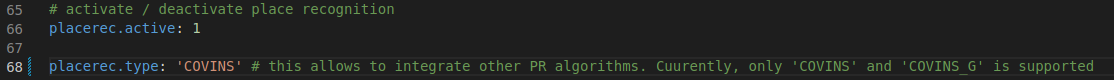
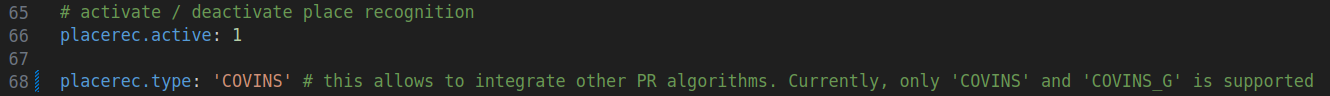
cleanup
Remove dead code
Add FLANN matcher for SIFT
fix typos

diff --git a/covins_backend/src/covins_backend/RelNonCentralPosSolver.cpp b/covins_backend/src/covins_backend/RelNonCentralPosSolver.cpp
@@ -7,7 +7,7 @@
 
 #include <eigen3/Eigen/Core>
 
-// CoVINS
+// COVINS
 #include "covins_backend/keyframe_be.hpp"
 #include "covins_base/config_backend.hpp"
 
@@ -63,7 +63,6 @@ bool RelNonCentralPosSolver::computeNonCentralRelPose(
     const double threshold, Eigen::Matrix4d &Tc1c2, Eigen::Matrix<double, 6, 6> &cov_loop) {
 
   // Find matches between CKF and QKF
-  // std::cout << "Attempting NON-Relative Pose Solver" << std::endl;
 
   // 3 v 2 Matching of Multicamera Systems (See publication for reference)
   size_t n_ckfs = 3;
@@ -163,11 +162,6 @@ bool RelNonCentralPosSolver::computeNonCentralRelPose(
         sacProb.max_iterations_ = mMaxIter_17PT;
         sacProb.computeModel(0);
 
-        // std::cout << "17 POINT Ransac needed " << sacProb.iterations_ << " iterations and ";
-        // std::cout << std::endl;
-        // std::cout << "the number of inliers is: " << sacProb.inliers_.size();
-        // std::cout << std::endl << std::endl;
-
         if (sacProb.inliers_.size() < mMinInliers_17PT ) {
         return false;
         }
@@ -188,10 +182,7 @@ bool RelNonCentralPosSolver::computeNonCentralRelPose(
         TransformType Tws1 = (Twc1corr * QKF->GetStateExtrinsics().inverse());
         Ts1s2 = Tws1.inverse() * Tws2;
 
-        // std::cout << "T_s2s1 :" << std::endl << Ts1s2.inverse() << std::endl;
-
         ////////////////////////////////////////////////////////////////////////////////////////////////////
-        // TODO Shift the Covariance Computation to Seperate Function
 
         // Compute Observed Covariance (Sampling-based Covariance)
         // We compute the Covariance in the IMU frame since PGO has all edges in
@@ -300,8 +291,6 @@ bool RelNonCentralPosSolver::computeNonCentralRelPose(
                     (m_s.rowwise() - x_mean_s).matrix()) /
                    (m_s.rows() - 1);
         
-        // std::cout << "Cov Mat Trace: " << cov_loop.trace() << std::endl;
-
         if (cov_loop.trace() < mMax_cov) {
           return true;
         }
@@ -314,12 +303,12 @@ bool RelNonCentralPosSolver::computeNonCentralRelPose(
 auto RelNonCentralPosSolver::findMatches(const KeyframePtr KFPtr1,
                                          const KeyframePtr KFPtr2) -> Matches {
 
-  std::shared_ptr<cv::BFMatcher> matcher(nullptr);
+  std::shared_ptr<cv::DescriptorMatcher> matcher;
 
   if (covins_params::features::type == "ORB") {
-      matcher = make_shared<cv::BFMatcher>(cv::NORM_HAMMING);
+      matcher = make_shared<cv::BFMatcher>(cv::BFMatcher(cv::NORM_HAMMING));
   } else if (covins_params::features::type == "SIFT") {
-      matcher = make_shared<cv::BFMatcher>(cv::NORM_L2);
+      matcher = make_shared<cv::FlannBasedMatcher>(cv::FlannBasedMatcher());
   } else {
       std::cout << COUTERROR
               << "Wrong Feature Type: Only ORB or SIFT is supported currently"
@@ -375,8 +364,6 @@ bool RelNonCentralPosSolver::computePose(const KeyframePtr KfPtr1,
 
   //Inlier keypoints
   inlierInd = sacProb.inliers_;
-
-  // std::cout << "Inliers: "<< sacProb.inliers_.size() << " Iters: "<< sacProb.iterations_ << std::endl;
 
   if (sacProb.inliers_.size() < mMinInliers || sacProb.iterations_ >=
   sacProb.max_iterations_) {

diff --git a/covins_backend/src/matcher/ImageMatchingAlgorithm.cpp b/covins_backend/src/matcher/ImageMatchingAlgorithm.cpp
@@ -71,7 +71,7 @@ void ImageMatchingAlgorithm::doSetup() {
   numUncertainMatches_ = 0;
 
   // Prepare the bookkeeping for frame A
-  const size_t numA = kfPtrA_->keypoints_distorted_add_.size();
+  const size_t numA = kfPtrA_->keypoints_distorted_.size();
   skipA_.clear();
   skipA_.resize(numA, false);
 
@@ -79,37 +79,36 @@ void ImageMatchingAlgorithm::doSetup() {
   raySigmasA_.resize(numA);
   const double sqrtOfsqrtOf2 = std::sqrt(std::sqrt(2.0));
   for (size_t k = 0; k < numA; ++k) {
-    raySigmasA_[k] = 0.002;
-    // double keypointAStdDev = 0.8 * (kfPtrA_->keypoints_aors_[k][1] + 1);
-    // raySigmasA_[k] = sqrtOfsqrtOf2 * keypointAStdDev / fA_;
-    // if (kfPtrA_->GetLandmark(k)) {
-    //   skipA_[k] = true;
-    // }
+    double keypointAStdDev = 0.8 * (kfPtrA_->keypoints_aors_[k][1] + 1);
+    raySigmasA_[k] = sqrtOfsqrtOf2 * keypointAStdDev / fA_;
+    if (kfPtrA_->GetLandmark(k)) {
+      skipA_[k] = true;
+    }
   }
 
   // Prepare the bookkeeping for frame B
-  const size_t numB = kfPtrB_->keypoints_distorted_add_.size();
+  const size_t numB = kfPtrB_->keypoints_distorted_.size();
   skipB_.clear();
   skipB_.resize(numB, false);
   // Compute the ray uncertainty for frame B
   raySigmasB_.resize(numB);
   for (size_t k = 0; k < numB; ++k) {
     raySigmasB_[k] = 0.002;
-    // double keypointBStdDev = 0.8 * (kfPtrA_->keypoints_aors_[k][1] + 1);
-    // raySigmasB_[k] = sqrtOfsqrtOf2 * keypointBStdDev / fB_;
-    // if (kfPtrB_->GetLandmark(k)) {
-    //   skipB_[k] = true;
-    // }
+    double keypointBStdDev = 0.8 * (kfPtrA_->keypoints_aors_[k][1] + 1);
+    raySigmasB_[k] = sqrtOfsqrtOf2 * keypointBStdDev / fB_;
+    if (kfPtrB_->GetLandmark(k)) {
+      skipB_[k] = true;
+    }
   }
 }
 
 // What is the size of list A?
 size_t ImageMatchingAlgorithm::sizeA() const {
-    return kfPtrA_->keypoints_distorted_add_.size();
+    return kfPtrA_->keypoints_distorted_.size();
 }
 // What is the size of list B?
 size_t ImageMatchingAlgorithm::sizeB() const {
-    return kfPtrB_->keypoints_distorted_add_.size();
+    return kfPtrB_->keypoints_distorted_.size();
 }
 
 // Set the distance threshold for which matches exceeding it will not be returned as matches.

diff --git a/covins_backend/include/covins/covins_backend/RelNonCentralPosSolver.hpp b/covins_backend/include/covins/covins_backend/RelNonCentralPosSolver.hpp
@@ -7,9 +7,8 @@
 
 #include <eigen3/Eigen/Core>
 
-// CoVINS
+// COVINS
 #include <covins/covins_base/typedefs_base.hpp>
-
 #include "covins/matcher/MatchingAlgorithm.h"
 
 // Third Party
@@ -52,8 +51,8 @@ public:
   /// @param minInliers The minimal number of inliers needed
   /// @param ransacProb The ransac probability
   /// @param maxIter The maximal number of iterations
-  void setRansacParams(const int minInliers, const double ransacProb,
-                       const int maxIter);
+  auto setRansacParams(const int minInliers, const double ransacProb,
+                       const int maxIter) -> void;
 
 
   /// @brief Perform 17 Point Ransac using 2D-2D correspondces in non central
@@ -64,10 +63,10 @@ public:
   /// @param Tc1c2 Relative Transfomation from Frame 2 to Frame 1
   /// @param cov_loop Covariance Matrix (6x6) of the loop transformation
   /// @return Whether a Transformation with sufficients inliers was found
-  bool computeNonCentralRelPose(const KeyframePtr KeyframePtr1,
+  auto computeNonCentralRelPose(const KeyframePtr KeyframePtr1,
                                 const KeyframePtr KeyframePtr2,
                                 const double threshold, TransformType &Tc1c2,
-                                Matrix6Type &cov_loop);
+                                Matrix6Type &cov_loop) -> bool;
 
 
   /// @brief Perform 5 Point Ransac using 2D-2D correspondces to get pose.
@@ -78,9 +77,10 @@ public:
   /// @param Tc1c2 Relative Transfomation from Frame 2 to Frame 1
   /// @param inlierInd Vector containing the inlier indices
   /// @return Whether a Transformation with sufficients inliers was found
-  bool computePose(const KeyframePtr KeyframePtr1,
+  auto computePose(const KeyframePtr KeyframePtr1,
                    const KeyframePtr KeyframePtr2, Matches &ImgMatches,
-                   const double threshold, TransformType &Tc1c2, std::vector<int> &inlierInd);
+                   const double threshold, TransformType &Tc1c2,
+                   std::vector<int> &inlierInd) -> bool;
 
   auto findMatches(const KeyframePtr KeyframePtr1,
                    const KeyframePtr KeyframePtr2) -> Matches;

diff --git a/covins_backend/src/covins_backend/placerec_gen_be.cpp b/covins_backend/src/covins_backend/placerec_gen_be.cpp
@@ -62,7 +62,6 @@ auto PlaceRecognitionG::ComputeSE3() -> bool {
 
     const size_t nInitialCandidates = mvpEnoughConsistentCandidates.size();
 
-    // std::cout << "----> Query " << kf_query_ << " : nInitialCandidates: " << nInitialCandidates << std::endl;
     vector<bool> vbDiscarded;
     vbDiscarded.resize(nInitialCandidates);
     int nCandidates = 0; // candidates with enough matches
@@ -80,12 +79,12 @@ auto PlaceRecognitionG::ComputeSE3() -> bool {
           continue;
         }
 
-        std::shared_ptr<cv::BFMatcher> matcher(nullptr);
+        std::shared_ptr<cv::DescriptorMatcher> matcher;
 
         if (covins_params::features::type == "ORB") {
-            matcher = make_shared<cv::BFMatcher>(cv::NORM_HAMMING);
+            matcher = make_shared<cv::BFMatcher>(cv::BFMatcher(cv::NORM_HAMMING));
         } else if (covins_params::features::type == "SIFT") {
-            matcher = make_shared<cv::BFMatcher>(cv::NORM_L2);
+            matcher = make_shared<cv::FlannBasedMatcher>(cv::FlannBasedMatcher());
         } else {
             std::cout << COUTERROR
                     << "Wrong Feature Type: Only ORB or SIFT is supported currently"
@@ -296,7 +295,6 @@ auto PlaceRecognitionG::DetectLoop()->bool {
         
     const DBoW2::BowVector &CurrentBowVec = kf_query_->bow_vec_;
     float minScore = 1;
-    // std::cout << "Number of neighbors: " << vpConnectedKeyFrames.size() << std::endl;
     for (size_t i = 0; i < vpConnectedKeyFrames.size(); i++) {
             KeyframePtr pKF = vpConnectedKeyFrames[i];
             if(pKF->IsInvalid()) continue;

diff --git a/covins_backend/include/covins/matcher/ImageMatchingAlgorithm.h b/covins_backend/include/covins/matcher/ImageMatchingAlgorithm.h
@@ -116,20 +116,16 @@ class ImageMatchingAlgorithm : public MatchingAlgorithm {
    * @remark Points that absolutely don't match will return float::max.
    */
   virtual float distance(size_t indexA, size_t indexB) const {
+    const float dist = static_cast<float>(specificDescriptorDistance(
+        
+        kfPtrA_->GetDescriptor(indexA),
+        kfPtrB_->GetDescriptor(indexB)));
 
-    if (covins_params::features::type == "ORB") {
-     const float dist = static_cast<float>(
-          DescriptorDistanceHamming(kfPtrA_->GetDescriptorAddCV(indexA),
-                                    kfPtrB_->GetDescriptorAddCV(indexB)));
-      if (dist < distanceThreshold_) {
+    if (dist < distanceThreshold_) {
       if (verifyMatch(indexA, indexB))
         return dist;
     }
     return std::numeric_limits<float>::max();
-    } else {
-      std::cout << "Descriptor Not Supported Currently. Select ORB" << std::endl;
-            exit(-1);
-    }
   }
 
   /// \brief Geometric verification of a match.
@@ -211,11 +207,6 @@ class ImageMatchingAlgorithm : public MatchingAlgorithm {
 
   bool validRelativeUncertainty_ = false;
 
-  /// \brief Calculates the distance between two descriptors.
-  u_int32_t DescriptorDistanceHamming(cv::Mat descriptorA,
-                              cv::Mat descriptorB) const {
-    return cv::norm(descriptorA, descriptorB, cv::NORM_HAMMING);
-  }
 
   /// \brief Calculates the distance between two descriptors.
   // copy from BriskDescriptor.hpp

diff --git a/covins_backend/src/covins_backend/optimization_be.cpp b/covins_backend/src/covins_backend/optimization_be.cpp
@@ -832,15 +832,13 @@ auto Optimization::OptimizeRelativePose(KeyframePtr kf1, KeyframePtr kf2, Landma
 
 auto Optimization::PoseGraphOptimization(
     MapPtr map, PoseMap corrected_poses) -> void {
-  
-    // std::cout << "+++ PGO: Start +++" << std::endl;
 
     ceres::Problem::Options problem_options;
     problem_options.enable_fast_removal = true;
     ceres::Problem problem(problem_options);
 
     ceres::LossFunctionWrapper *loss_function = new ceres::LossFunctionWrapper(
-        new ceres::CauchyLoss(0.5), ceres::TAKE_OWNERSHIP);
+        new ceres::CauchyLoss(covins_params::opt::robust_loss_th), ceres::TAKE_OWNERSHIP);
 
     ceres::LocalParameterization *local_pose_param =
         new robopt::local_param::PoseQuaternionLocalParameterization();
@@ -1085,7 +1083,6 @@ auto Optimization::PoseGraphOptimization(
     }
 
     std::cout << "--> PGO END " << std::endl;
-    // std::cout << "--> PGO removed " << removed_lms << " LMs" << std::endl;
 }
 
 

diff --git a/covins_backend/include/covins/covins_base/config_backend.hpp b/covins_backend/include/covins/covins_base/config_backend.hpp
@@ -186,6 +186,7 @@ namespace opt {
     const bool perform_pgo                              = estd2::GetValFromYaml<bool>(conf,"opt.perform_pgo");
     const bool use_nbr_kfs                              = estd2::GetValFromYaml<bool>(conf,"opt.use_nbr_kfs");
     const bool use_robust_loss                          = estd2::GetValFromYaml<bool>(conf,"opt.use_robust_loss");
+    const precision_t robust_loss_th                    = estd2::GetValFromYaml<precision_t>(conf,"opt.robust_loss_threshold");
     const bool pgo_fix_kfs_after_gba                    = estd2::GetValFromYaml<bool>(conf,"opt.pgo_fix_kfs_after_gba");
     const bool pgo_fix_poses_loaded_maps                = estd2::GetValFromYaml<bool>(conf,"opt.pgo_fix_poses_loaded_maps");
     const bool gba_fix_poses_loaded_maps                = estd2::GetValFromYaml<bool>(conf,"opt.gba_fix_poses_loaded_maps");

diff --git a/covins_backend/src/matcher/opengv/FrameNoncentralRelativeAdapter.cpp b/covins_backend/src/matcher/opengv/FrameNoncentralRelativeAdapter.cpp
@@ -108,7 +108,7 @@ FrameNoncentralRelativeAdapter::FrameNoncentralRelativeAdapter(
     }
   }
 
-  // Build the Cam OFfset Matrix (First push all at index 0 and then all at
+  // Build the Cam Offset Matrix (First push all at index 0 and then all at
   // index 1)
   //
   // Push the Camera Translation and Rotations
